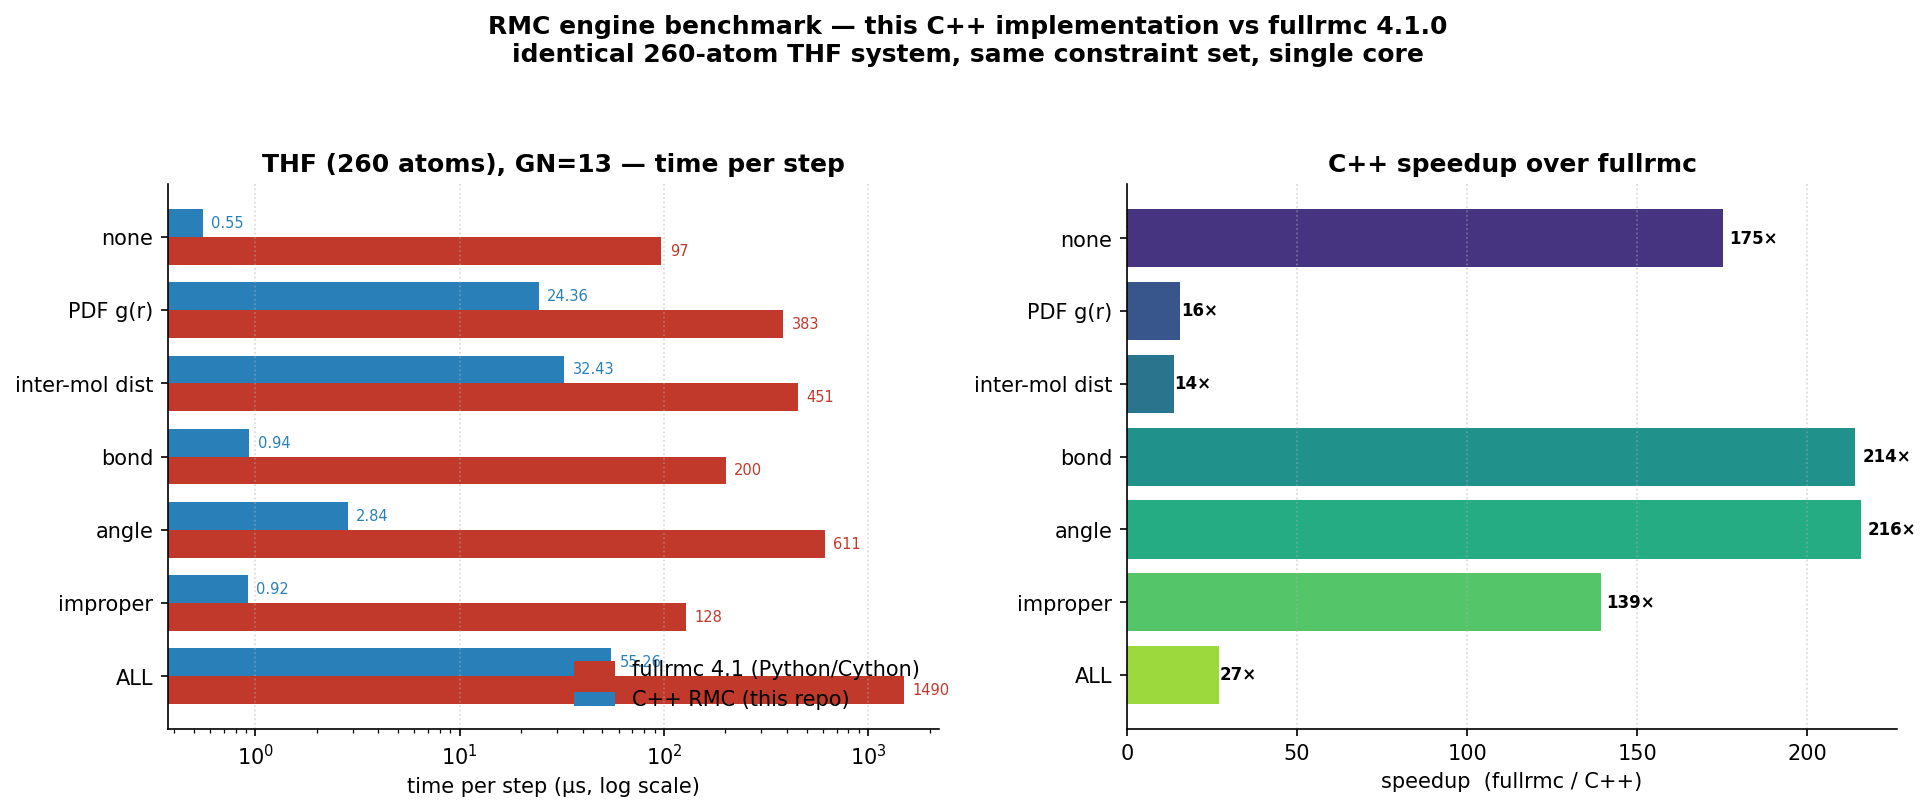
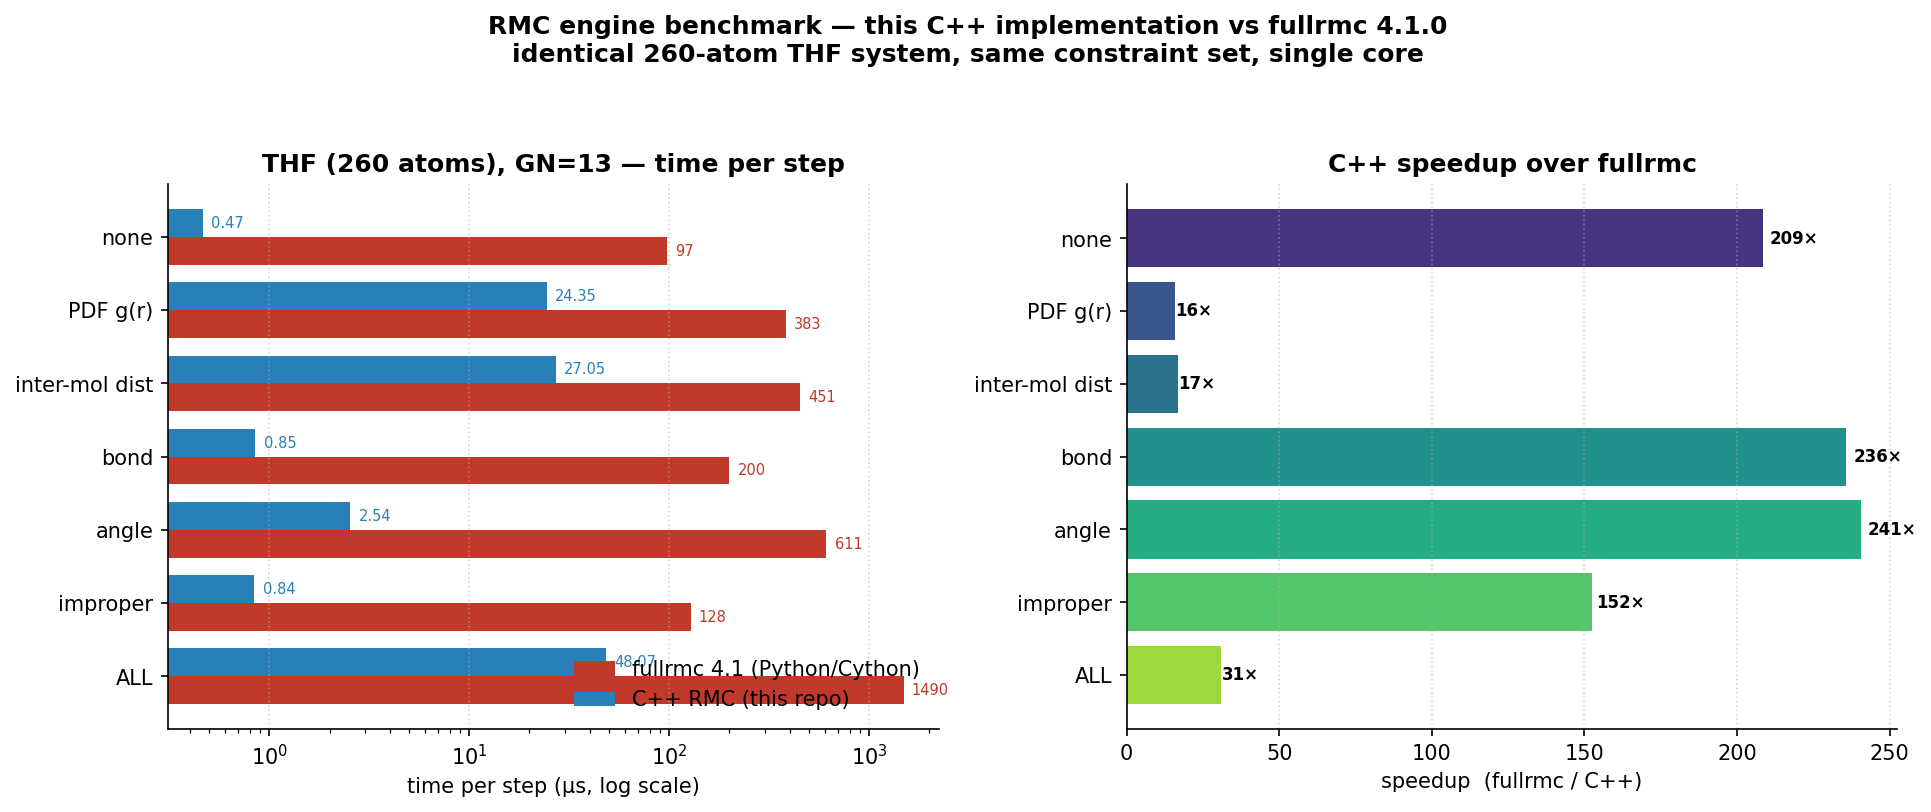
license

diff --git a/BENCHMARKS.md b/BENCHMARKS.md
@@ -48,20 +48,20 @@ benchmarks (`tests/bench_thf.cpp`).
 
 | Constraint | fullrmc 4.1 (µs/step) | C++ RMC (µs/step) | Speed-up |
 |---|--:|--:|--:|
-| none (move only)        |   97.0 |  0.55 | **175×** |
-| PDF g(r)                |  383.1 | 24.36 |  **16×** |
-| inter-molecular distance|  450.9 | 32.43 |  **14×** |
-| bond                    |  200.3 |  0.94 | **214×** |
-| angle                   |  611.4 |  2.84 | **216×** |
-| improper                |  128.1 |  0.92 | **140×** |
-| **all constraints**     | **~1250** | **55.3** | **~23×** |
+| none (move only)        |   97.0 |  0.47 | **209×** |
+| PDF g(r)                |  383.1 | 24.35 |  **16×** |
+| inter-molecular distance|  450.9 | 27.05 |  **17×** |
+| bond                    |  200.3 |  0.85 | **236×** |
+| angle                   |  611.4 |  2.54 | **241×** |
+| improper                |  128.1 |  0.84 | **152×** |
+| **all constraints**     | **~1250** | **48.1** | **~26×** |
 
-The C++ all-constraints figure (55 µs/step ≈ 18 000 steps/s) is stable across
+The C++ all-constraints figure (48 µs/step ≈ 21 000 steps/s) is stable across
 5 k–50 k-step runs; fullrmc holds ~1.25 ms/step (≈ 800 steps/s).
 
 ### How to read it
 
-- **All-constraints is the realistic case: ~23× faster.** This is the number
+- **All-constraints is the realistic case: ~26× faster.** This is the number
   that matters for production refinement.
 - The **PDF** and **inter-molecular-distance** constraints dominate runtime in
   *both* engines and show the *smallest* speed-ups (14–16×) — that's where
@@ -76,8 +76,6 @@ The C++ all-constraints figure (55 µs/step ≈ 18 000 steps/s) is stable across
 
 - **Single core both sides.** fullrmc supports multi-core histogram kernels
   (`ncores=`); that was not exercised. The C++ engine's TBB path was also off.
-- The C++ binary measured is **RelWithDebInfo** (`-O2 -g`); a pure `Release`
-  build is marginally faster still.
 - Per-molecule angle definitions differ trivially (22 vs. 25 angles) —
   immaterial, since PDF/vdw dominate.
 - fullrmc coordinates were not reset between sub-runs (4.1 disallows resetting
@@ -107,14 +105,15 @@ Then, from a directory holding `system.pdb` + `experimental.gr` (copy them from
 # fullrmc: subsets at 2000 steps, all-constraints scaling at 1k/2k/5k
 python3 tools/frmc_thf_bench.py 2000 "1000,2000,5000"   # -> frmc_results.json
 
-# C++: the matching THF benchmarks (any optimized build)
-./cmake-build-relwithdebinfo/RMC_tests "bench: THF constraint subsets*" \
+# C++: the matching THF benchmarks (Release build)
+./cmake-build-release/RMC_tests "bench: THF constraint subsets*" \
     --reporter XML --benchmark-samples 20 > cpp_subsets.xml
-./cmake-build-relwithdebinfo/RMC_tests "bench: THF step-count scaling*" \
+./cmake-build-release/RMC_tests "bench: THF step-count scaling*" \
     --reporter XML --benchmark-samples 10 > cpp_steps.xml
 
 # combine -> table + fullrmc_comparison.png
 python3 tools/frmc_compare.py
 ```
 
-_Measured on a 16-core Linux box, single-threaded, fullrmc 4.1.0._
+_Measured on a 16-core Linux box, single-threaded, `Release` build
+(`-O3 -DNDEBUG`, LTO + `-march=native`), fullrmc 4.1.0._
